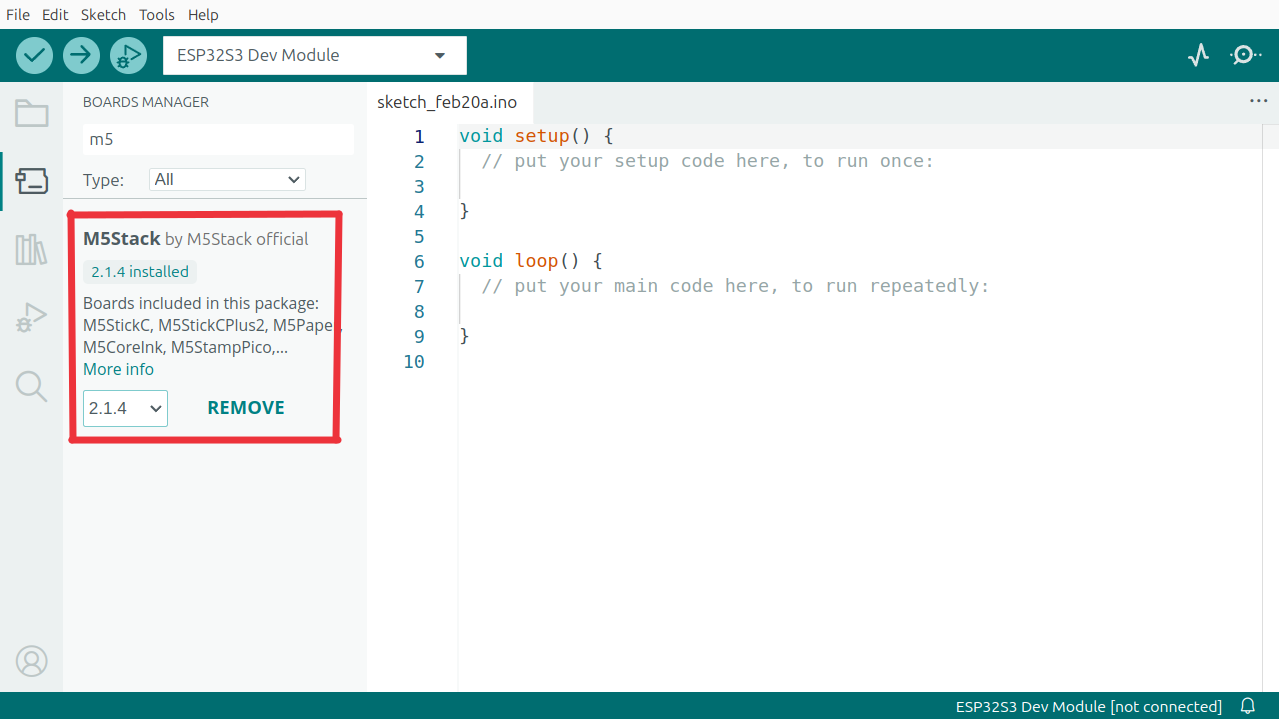
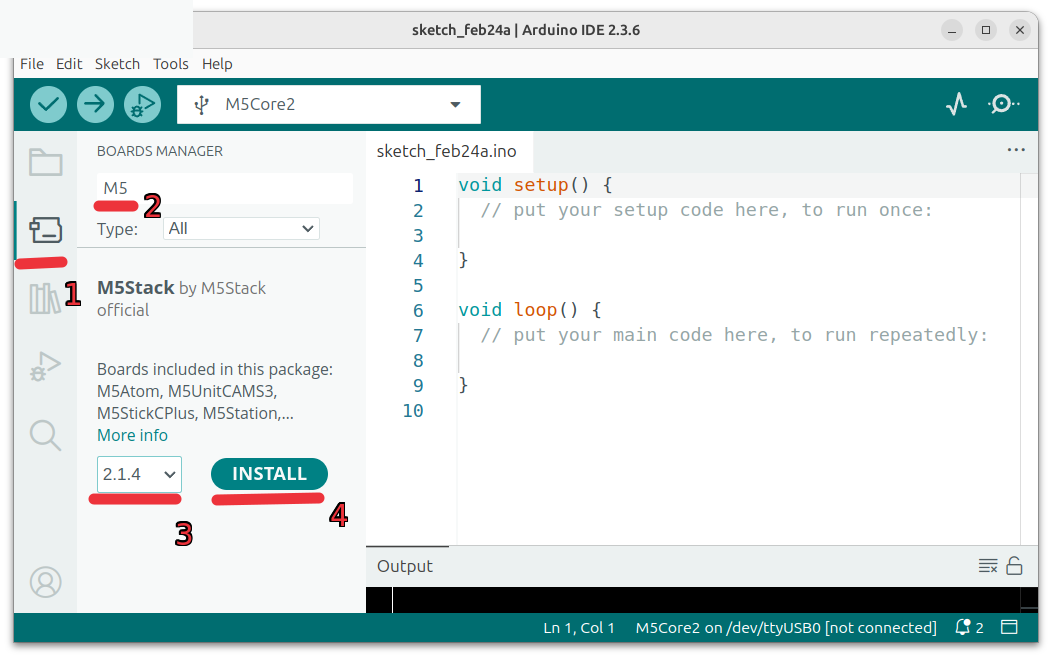
update arduino install

diff --git a/ARDUINO_SETUP.md b/ARDUINO_SETUP.md
@@ -7,22 +7,23 @@
 
 ## Добавление платы M5Stack
 
-1. Откройте Arduino IDE
-2. Перейдите в `File` → `Preferences`
+Откройте Arduino IDE
+
+Перейдите в `File` → `Preferences`
 
 ![Preferences](img/img1.png)
 
-3. В поле `Additional Boards Manager URLs` вставьте ссылку:
+В поле `Additional Boards Manager URLs` вставьте ссылку:
    ```
    https://static-cdn.m5stack.com/resource/arduino/package_m5stack_index.json
    ```
 
 ![Preferences](img/img2.png)
 
-4. Откройте `Tools` → `Board` → `Boards Manager`
-5. Найдите и установите:
-
-   - `M5Stack` версия `2.1.4`
+1. Слева нажмите на "Boards Manager"
+2. В строке поиска введите `M5Stack`
+3. Выберите версию `2.1.4`
+4. Нажмите **INSTALL**
 
 ![Preferences](img/img4.png)
    
